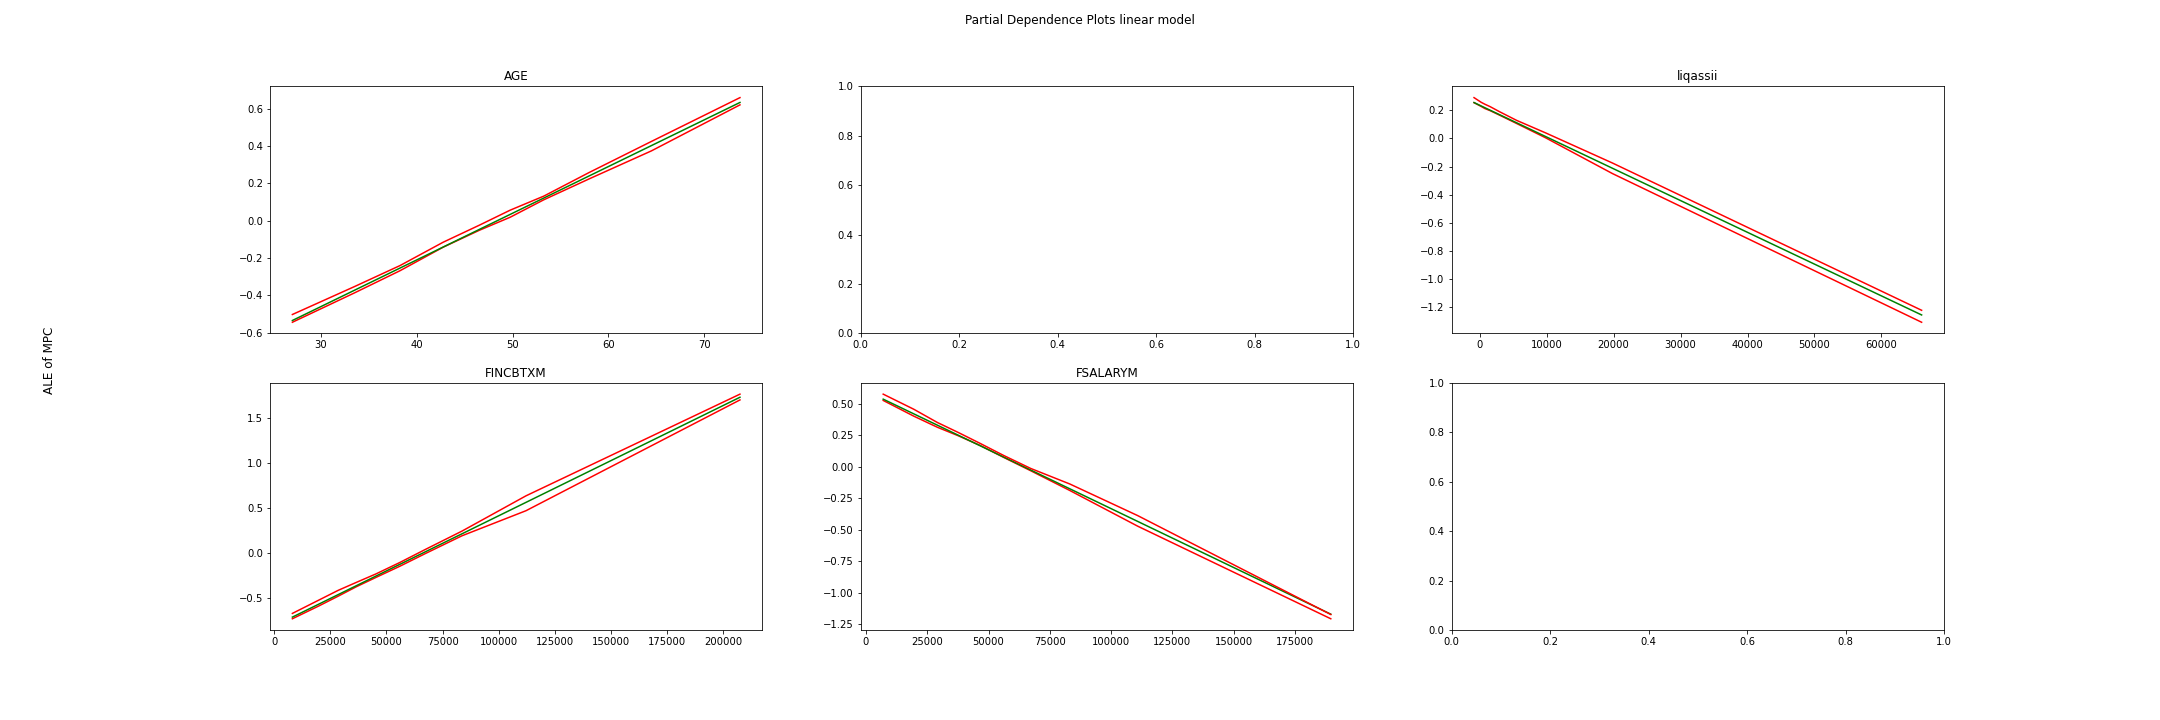
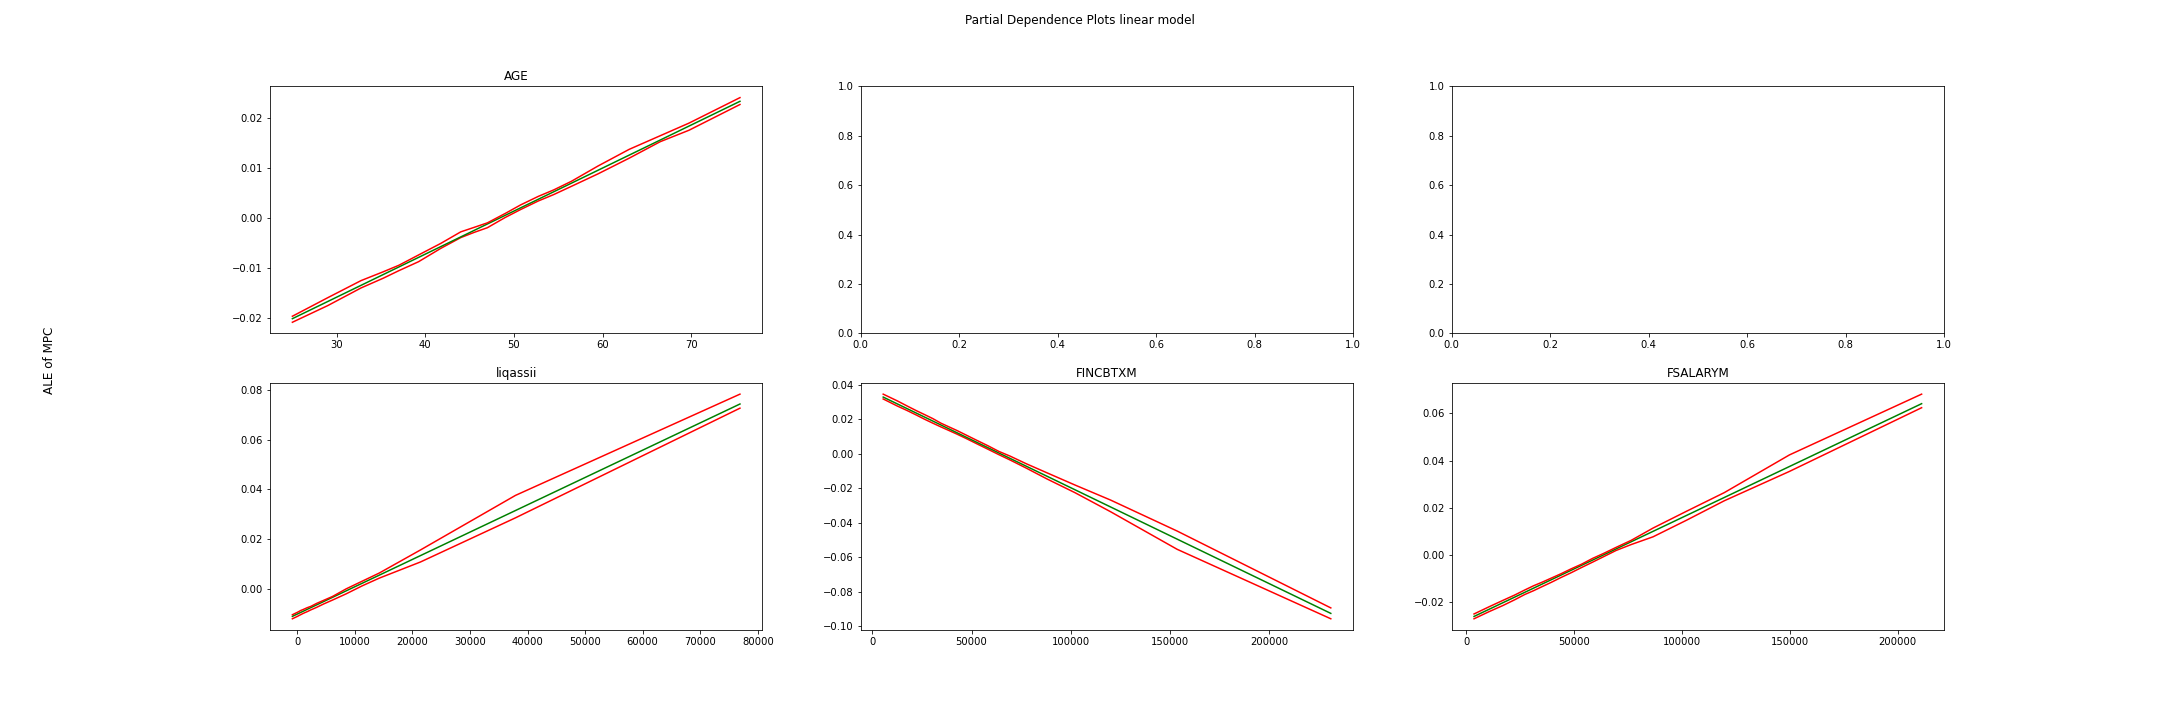
create ALE figures and CATE results pt1

diff --git a/src/analysis/baseline_dml/baseline_specs.py b/src/analysis/baseline_dml/baseline_specs.py
@@ -27,11 +27,6 @@ This file estimates the baseline specifications of the linear DML model to estim
 '''
 
 #*#########################
-#! IDEAS & TO DOs
-#*#########################
-#IDEA: control for how many months after announcement rebate was received 
-
-#*#########################
 #! FUNCTIONS
 #*#########################
 def retrieve_params(params_df, treatment, outcome, spec): 
@@ -99,7 +94,7 @@ def subplots_canvas(variables):
 
 def fig_geom(fig): 
     n_rows, n_cols=fig.axes[0].get_subplotspec().get_topmost_subplotspec().get_gridspec().get_geometry()
-    return n_cols, n_cols
+    return n_rows, n_cols
 
 def pdp_plot(x_axis, y_axis, var, model): 
     '''
@@ -151,6 +146,7 @@ def all_pdp_plots(xaxes, yaxes, model, spec):
     labels=['Lower CI', 'Point Estimate', 'Upper CI']
     #then plot pdp for each variable
     for i, var in enumerate(variables): 
+        print(var)
         #get x- and y-axis 
         x_axis=xaxes[var]
         y_axis=yaxes[model][var]
@@ -175,8 +171,6 @@ def all_pdp_plots(xaxes, yaxes, model, spec):
     fig.supylabel('MPC')
     figname=spec+'PDPs_'+model
     plt.savefig(fig_out/'PDP'/figname)
-    plt.show()
-    plt.close()
 
 def all_ice_plots(xaxes, yaxes, model): 
     '''
@@ -200,6 +194,7 @@ def all_ice_plots(xaxes, yaxes, model):
         axes=axes.flatten()
     #for each variable plot all lines on one axis
     for i, var in enumerate(variables): 
+        print(var)
         #get x-axis 
         x_axis=xaxes[var]
         #get y-axis lines 
@@ -221,7 +216,6 @@ def all_ice_plots(xaxes, yaxes, model):
     fig.supylabel('MPC')
     figname='ICEs_'+model
     plt.savefig(fig_out/'ICE'/figname)
-    plt.show()
 
 def cdf_figure(spec, models, figname): 
     '''
@@ -286,7 +280,9 @@ def all_ale_plots(spec, model, bins=20, bootstrap=False,
     n_rows, n_cols=fig_geom(fig)
     #then for each feature
     for i, feat in enumerate(features): 
-        if feat=='married': 
+        print(feat)
+    #!this is ugly so far
+        if feat in ['married', 'owned_m', 'notowned']: 
             pass
         else:
             #get ALE, quantiles and CIs
@@ -315,7 +311,39 @@ def all_ale_plots(spec, model, bins=20, bootstrap=False,
     fig.supylabel('ALE of MPC')
     #save figure
     plt.savefig(fig_out/'ALE'/figname)
-    plt.show()
+    plt.close()
+
+def do_analysis(spec, specname): 
+    '''
+    Apply all analysis steps to spec. 
+    '''
+    #* CDF 
+    cdf_name='cate_df_'+specname
+    cdf_figure(spec=spec, models=['linear', 'cf'], figname=cdf_name)
+    print('CDF done')
+    #* PDP 
+    # #get all axes for specification for both models and create PDPs
+    # #linear model
+    # spec.all_pdp_axis(model='linear', alpha=0.1)
+    # all_pdp_plots(spec.x_axis_pdp, spec.y_axis_pdp, model='linear', spec=specname)
+    # #cf model 
+    # spec.all_pdp_axis(model='cf', alpha=0.1)
+    # all_pdp_plots(spec.x_axis_pdp, spec.y_axis_pdp, model='cf', spec=specname)
+    # print('PDP done')
+    # # #* ICE 
+    # #get all ICE axes for specifications 
+    # #linear model
+    # spec.all_ice_axis(model='linear')
+    # all_ice_plots(spec.x_axis_ice, spec.y_axis_ice, model='linear')
+    # #cf model 
+    # spec.all_ice_axis(model='cf')
+    # all_ice_plots(spec.x_axis_ice, spec.y_axis_ice, model='cf')
+    #* ALE 
+    #linear
+    all_ale_plots(spec, model='linear', bins=20, bootstrap=True, bootstrap_samples=100, n_sample=spec.x_test.shape[0], figname=specname+'_linear')
+    #cf
+    all_ale_plots(spec1_est, model='cf', bins=20, bootstrap=True, bootstrap_samples=100, n_sample=spec1_est.x_test.shape[0], figname=specname+'_cf')
+    print('ALE done')
 
 #*#########################
 #! DATA
@@ -341,7 +369,7 @@ constants=['const'+str(i) for i in range(1, 15)]
 #! SET TREATMENT AND OUTCOME
 #set for all specifications
 #choose outcome 
-outcome='chTOTexp'
+outcome='chUTILexp'
 #choose treatment
 treatment='RBTAMT'
 
@@ -469,7 +497,7 @@ subset=variables[variables['comp_samp']==1]
 spec4_df=subset[['custid']+[treatment, outcome]+spec4_xcols+spec4_wcols+constants]
 spec4_df=spec4_df.dropna()
 #set up DML class
-spec4_est=fitDML(spec4_df, treatment, outcome, spec3_xcols)
+spec4_est=fitDML(spec4_df, treatment, outcome, spec4_xcols)
 #get opt parameters for first stage for setting
 best_params_R, best_params_Y=retrieve_params(hyperparams, treatment, outcome, 'spec4')
 print('Spec 4 is set up.')
@@ -498,140 +526,44 @@ print('Spec 4 done')
 #*#########
 #! Spec 1 
 print('Start Spec 1')
-#* CDF 
-cdf_figure(spec=spec1_est, models=['linear', 'cf'], figname='cate_cdf_spec1')
-#* PDP 
-#get all axes for specification for both models and create PDPs
-#linear model
-spec1_est.all_pdp_axis(model='linear', alpha=0.1)
-all_pdp_plots(spec1_est.x_axis_pdp, spec1_est.y_axis_pdp, model='linear', spec='spec1')
-#cf model 
-spec1_est.all_pdp_axis(model='cf', alpha=0.1)
-all_pdp_plots(spec1_est.x_axis_pdp, spec1_est.y_axis_pdp, model='cf', spec='spec1')
-#* ICE 
-#get all ICE axes for specifications 
-#linear model
-spec1_est.all_ice_axis(model='linear')
-all_ice_plots(spec1_est.x_axis_ice, spec1_est.y_axis_ice, model='linear')
-#cf model 
-spec1_est.all_ice_axis(model='cf')
-all_ice_plots(spec1_est.x_axis_ice, spec1_est.y_axis_ice, model='cf')
-#* ALE 
-#linear
-all_ale_plots(spec1_est, model='linear', bins=20, bootstrap=True, n_sample=spec1_est.x_test.shape[0], figname='spec1_linear')
-#cf
-all_ale_plots(spec1_est, model='cf', bins=20, bootstrap=True, n_sample=spec1_est.x_test.shape[0], figname='spec1_cf')
-
-#* Test ITE-ATE
-testresults_lin=ite_ate_test(spec1_est, 'linear')
-print(sum(testresults_lin[1]))
-testresults_cf=ite_ate_test(spec1_est, 'cf')
-print(sum(testresults_cf[1]))
-
+do_analysis(spec1_est, 'spec1')
+# #* Test ITE-ATE
+#! use randomization tests for this!!!! (see http://datacolada.org/99)
+# testresults_lin=ite_ate_test(spec1_est, 'linear')
+# print(sum(testresults_lin[1]))
+# testresults_cf=ite_ate_test(spec1_est, 'cf')
+# print(sum(testresults_cf[1]))
 print('Spec 1 done')
 
 #*#########
 #! Spec 2 
 print('Start Spec 2')
-#* CDF 
-cdf_figure(spec=spec2_est, models=['linear', 'cf'], figname='cate_cdf_spec2')
-#* PDP 
-#get all axes for specification for both models and create PDPs
-#linear model
-spec2_est.all_pdp_axis(model='linear', alpha=0.1)
-all_pdp_plots(spec2_est.x_axis_pdp, spec2_est.y_axis_pdp, model='linear', spec='spec2')
-#cf model 
-spec2_est.all_pdp_axis(model='cf', alpha=0.1)
-all_pdp_plots(spec2_est.x_axis_pdp, spec2_est.y_axis_pdp, model='cf', spec='spec2')
-#* ICE 
-#get all ICE axes for specifications 
-#linear model
-spec2_est.all_ice_axis(model='linear')
-all_ice_plots(spec2_est.x_axis_ice, spec2_est.y_axis_ice, model='linear')
-#cf model 
-spec2_est.all_ice_axis(model='cf')
-all_ice_plots(spec2_est.x_axis_ice, spec2_est.y_axis_ice, model='cf')
-#* ALE 
-#linear
-all_ale_plots(spec2_est, model='linear', bins=20, bootstrap=True, n_sample=spec2_est.x_test.shape[0], figname='spec2_linear')
-#cf
-all_ale_plots(spec2_est, model='cf', bins=20, bootstrap=True, n_sample=spec2_est.x_test.shape[0], figname='spec2_cf')
-
-#* Test ITE-ATE
-testresults_lin=ite_ate_test(spec2_est, 'linear')
-print(sum(testresults_lin[1]))
-testresults_cf=ite_ate_test(spec2_est, 'cf')
-print(sum(testresults_cf[1]))
-
+do_analysis(spec2_est, 'spec2')
+# #* Test ITE-ATE
+# testresults_lin=ite_ate_test(spec2_est, 'linear')
+# print(sum(testresults_lin[1]))
+# testresults_cf=ite_ate_test(spec2_est, 'cf')
+# print(sum(testresults_cf[1]))
 print('Spec 2 done')
 
 #*#########
 #! Spec 3 
 print('Start Spec 3')
-#* CDF 
-cdf_figure(spec=spec3_est, models=['linear', 'cf'], figname='cate_cdf_spec3')
-#* PDP 
-#get all axes for specification for both models and create PDPs
-#linear model
-spec3_est.all_pdp_axis(model='linear', alpha=0.1)
-all_pdp_plots(spec3_est.x_axis_pdp, spec3_est.y_axis_pdp, model='linear', spec='spec3')
-#cf model 
-spec3_est.all_pdp_axis(model='cf', alpha=0.1)
-all_pdp_plots(spec3_est.x_axis_pdp, spec3_est.y_axis_pdp, model='cf', spec='spec3')
-#* ICE 
-#get all ICE axes for specifications 
-#linear model
-spec3_est.all_ice_axis(model='linear')
-all_ice_plots(spec3_est.x_axis_ice, spec3_est.y_axis_ice, model='linear')
-#cf model 
-spec3_est.all_ice_axis(model='cf')
-all_ice_plots(spec3_est.x_axis_ice, spec3_est.y_axis_ice, model='cf')
-#* ALE 
-#linear
-all_ale_plots(spec3_est, model='linear', bins=20, bootstrap=True, n_sample=spec3_est.x_test.shape[0], figname='spec3_linear')
-#cf
-all_ale_plots(spec3_est, model='cf', bins=20, bootstrap=True, n_sample=spec3_est.x_test.shape[0], figname='spec3_cf')
-
-#* Test ITE-ATE
-testresults_lin=ite_ate_test(spec3_est, 'linear')
-print(sum(testresults_lin[1]))
-testresults_cf=ite_ate_test(spec3_est, 'cf')
-print(sum(testresults_cf[1]))
-
+do_analysis(spec3_est, 'spec3')
+# #* Test ITE-ATE
+# testresults_lin=ite_ate_test(spec3_est, 'linear')
+# print(sum(testresults_lin[1]))
+# testresults_cf=ite_ate_test(spec3_est, 'cf')
+# print(sum(testresults_cf[1]))
 print('Spec 3 done')
 
 #*#########
 #! Spec 4 
 print('Start Spec 4')
-#* CDF 
-cdf_figure(spec=spec4_est, models=['linear', 'cf'], figname='cate_cdf_spec4')
-#* PDP 
-#get all axes for specification for both models and create PDPs
-#linear model
-spec4_est.all_pdp_axis(model='linear', alpha=0.1)
-all_pdp_plots(spec4_est.x_axis_pdp, spec4_est.y_axis_pdp, model='linear', spec='spec4')
-#cf model 
-spec4_est.all_pdp_axis(model='cf', alpha=0.1)
-all_pdp_plots(spec4_est.x_axis_pdp, spec4_est.y_axis_pdp, model='cf', spec='spec4')
-#* ICE 
-#get all ICE axes for specifications 
-#linear model
-spec4_est.all_ice_axis(model='linear')
-all_ice_plots(spec4_est.x_axis_ice, spec4_est.y_axis_ice, model='linear')
-#cf model 
-spec4_est.all_ice_axis(model='cf')
-all_ice_plots(spec4_est.x_axis_ice, spec4_est.y_axis_ice, model='cf')
-# #* ALE 
-# #linear
-# all_ale_plots(spec1_est, model='linear', bins=20, bootstrap=True, n_sample=spec1_est.x_test.shape[0], figname='spec1_linear')
-# #cf
-# all_ale_plots(spec1_est, model='cf', bins=20, bootstrap=True, n_sample=spec1_est.x_test.shape[0], figname='spec1_cf')
-
-#* Test ITE-ATE
-testresults_lin=ite_ate_test(spec4_est, 'linear')
-print(sum(testresults_lin[1]))
-testresults_cf=ite_ate_test(spec4_est, 'cf')
-print(sum(testresults_cf[1]))
-
+do_analysis(spec4_est, 'spec4')
+# #* Test ITE-ATE
+# testresults_lin=ite_ate_test(spec4_est, 'linear')
+# print(sum(testresults_lin[1]))
+# testresults_cf=ite_ate_test(spec4_est, 'cf')
+# print(sum(testresults_cf[1]))
 print('Spec 4 done')
-

diff --git a/src/analysis/utils.py b/src/analysis/utils.py
@@ -401,3 +401,7 @@ class fitDML(data_utils):
         
         '''
         
+class analysis_utils(): 
+    '''
+    Class for analysis tools.
+    '''
